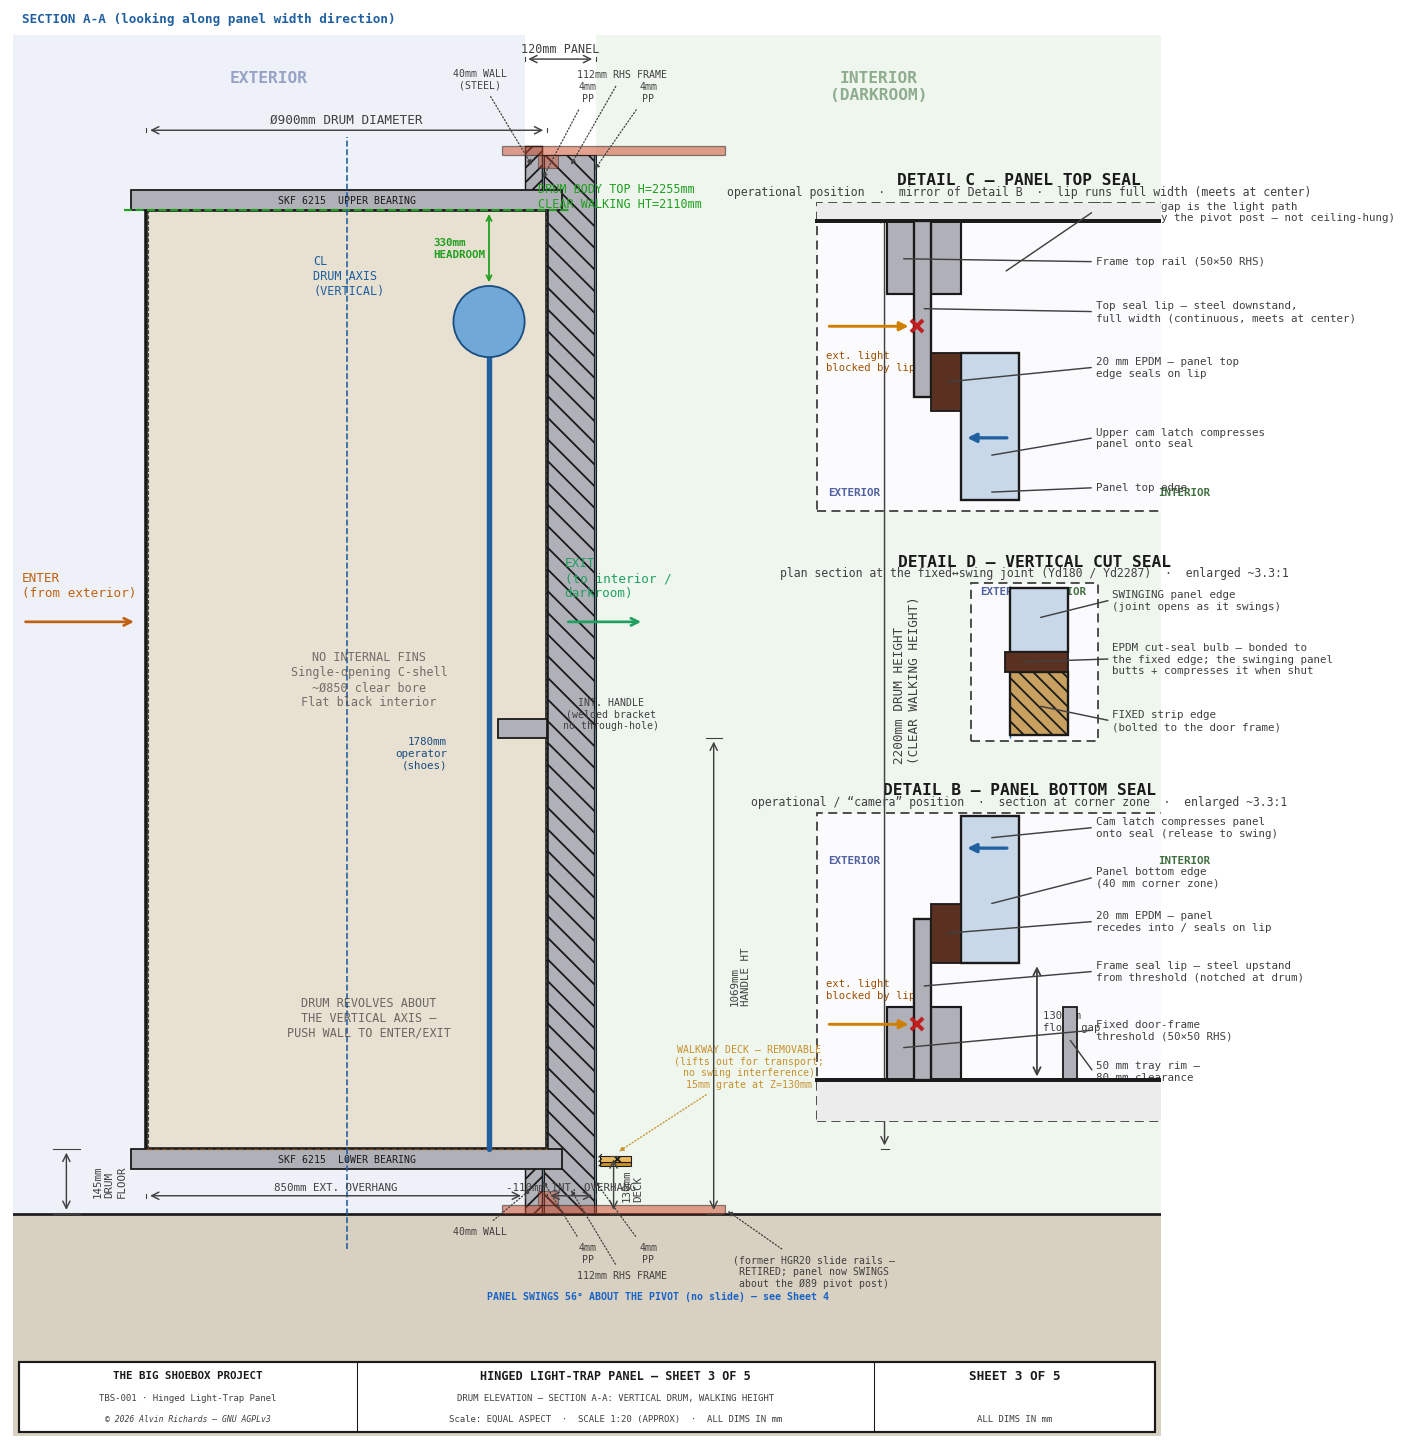
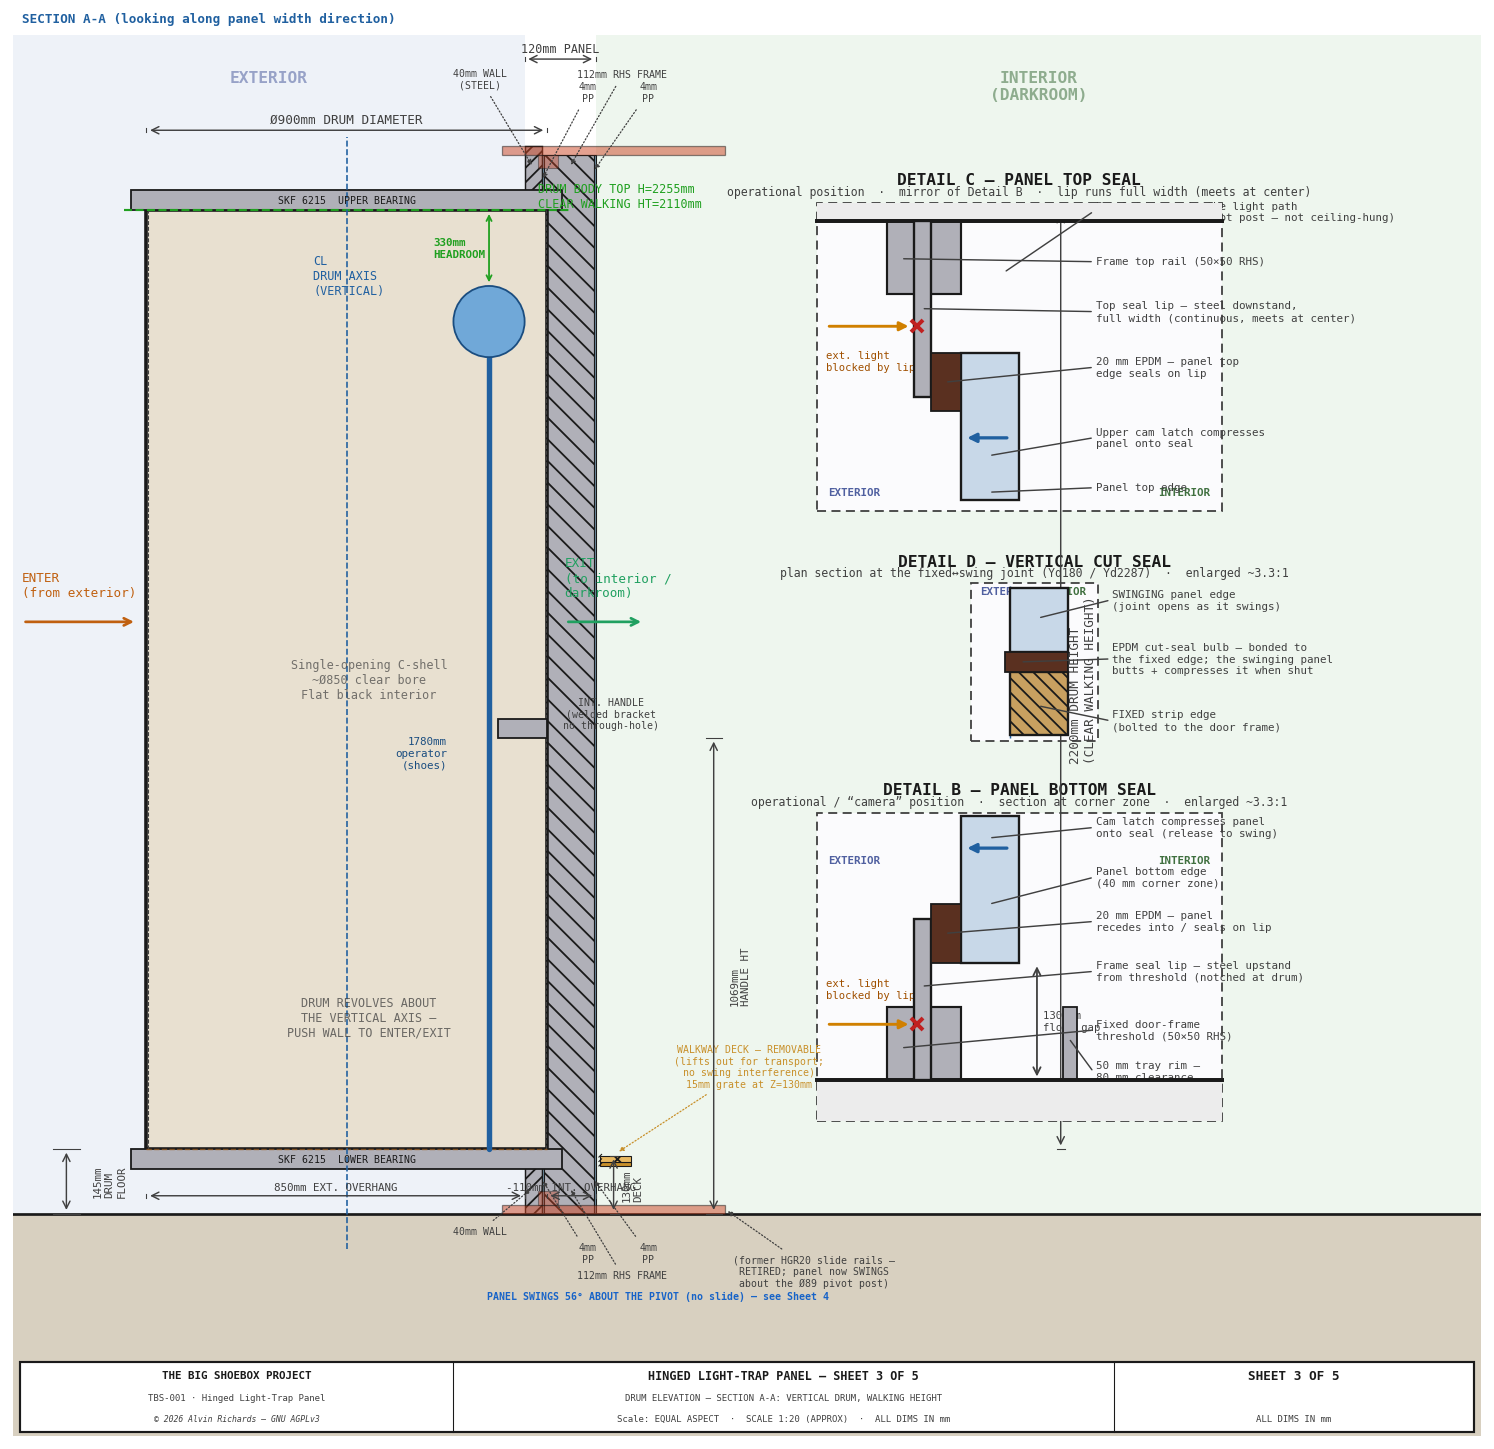
hingepanel sheet 3: widen the page so the right-hand seal details fit
The right margin (PAD_R=1380 -> X_HI~1430) cut off Details B/C and their annotations,
which run out to ~1935mm. Bump PAD_R to 2100 (X_HI~2150); the equal-aspect figure
auto-widens so the panel-top / vertical-cut / panel-bottom seal details sit fully on the
page. (Stale X_LO/X_HI comments corrected too.)

diff --git a/src/generators/generate_hingepanel_diagram.py b/src/generators/generate_hingepanel_diagram.py
@@ -806,11 +806,12 @@ def sheet3():
     H_HANDLE   = H_BRG_BOT + DRUM_H * 0.45  # handle height = ~1000mm
 
     # ── Data range → figure size ──────────────────────────────────────────────
-    PAD_L, PAD_R = 300, 1380  # depth-axis margins (right margin holds Detail B)
+    PAD_L, PAD_R = 300, 2100  # depth-axis margins (right margin holds Details B/C + their
+                              # annotations, which run out to ~1935mm — widened so they fit)
     PAD_B, PAD_T = 500, 350   # height-axis margins (bottom includes title block + rail annotations)
 
-    X_LO = D_DEPTH_L - PAD_L   # = -595mm
-    X_HI = D_DEPTH_R + PAD_R   # = 1835mm  → width 2430mm
+    X_LO = D_DEPTH_L - PAD_L   # = -1150mm
+    X_HI = D_DEPTH_R + PAD_R   # = 2150mm
     Y_LO = H_FLOOR - PAD_B     # = -150mm
     Y_HI = H_BRG_TOP + PAD_T   # = 2450mm  → height 2600mm
 
@@ -1021,7 +1022,7 @@ def sheet3():
     # this elevation the bore reads as open space (light-tightness is by the
     # housing geometry — see Sheet 2 plan and Sheet 5).
     ax.text(D_CX_DEPTH / 2 - 150, H_DRUM_BOT + (H_DRUM_TOP - H_DRUM_BOT) * 0.5,
-            "NO INTERNAL FINS\nSingle-opening C-shell\n~Ø850 clear bore\nFlat black interior",
+            "Single-opening C-shell\n~Ø850 clear bore\nFlat black interior",
             ha="center", va="center", fontsize=6.5, color=C_DIM,
             **FONT, alpha=0.7, zorder=15)
 
@@ -1142,7 +1143,7 @@ def sheet3():
     # Vertical dimension arrow: container floor → handle bottom
     HANDLE_DIM_X = D_DEPTH_L - 100
     HANDLE_BOT = H_HANDLE - HH / 2   # bottom of handle bar
-    dim_v(ax, HANDLE_DIM_X/2 + DRUM_D, H_FLOOR, HANDLE_BOT,
+    dim_v(ax, HANDLE_DIM_X / 2 + DRUM_D, H_FLOOR, HANDLE_BOT,
           f"{int(HANDLE_BOT)}mm\nHANDLE HT", offset=-60, fs=6)
 
     # ══════════════════════════════════════════════════════════════════════════
@@ -1496,7 +1497,7 @@ def sheet4():
     ax.add_patch(Rectangle((RX - 27, FP_Y_MIN - 27), 54, 54, fc="#5A5A62", ec=C_OUT, lw=1, zorder=7))  # near post
     # the FAR-left film post IS the Ø89 swing pivot
     ax.add_patch(Circle((HX, HY), PIVOT_POST_OD / 2 + 6, fc="#5A5AA0", ec=C_OUT, lw=1.2, zorder=9))
-    ax.text(HX + 75, HY, "PIVOT POST Ø89\n(= film far-left post)", fontsize=6.5,
+    ax.text(HX + 75, HY + 25, "PIVOT POST Ø89\n(= film far-left post)", fontsize=6.5,
             color="#5A5AA0", **FONT, va="center", zorder=12)
 
     # fixed left + far panel strips (do NOT swing)
